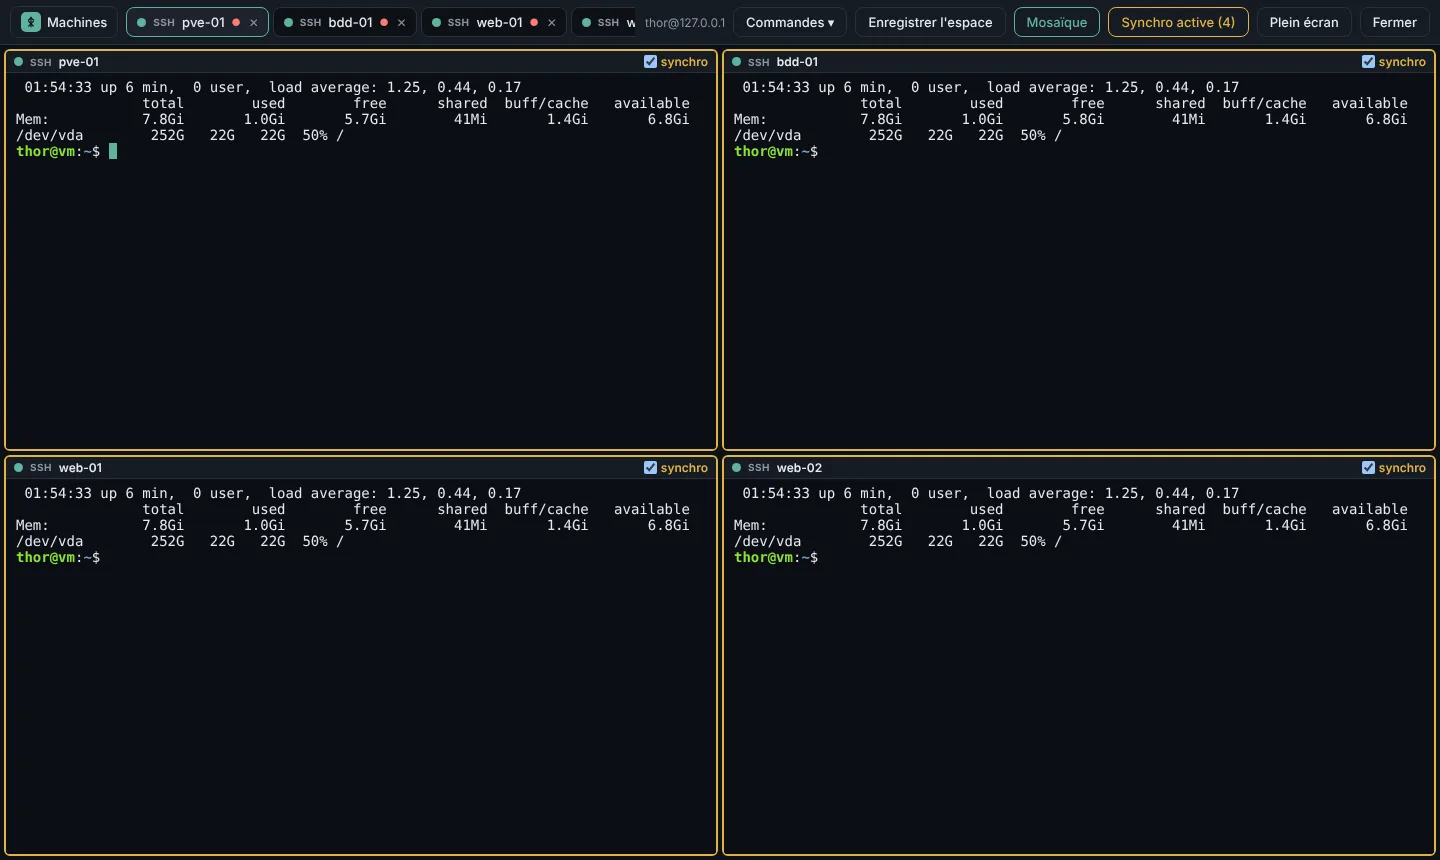
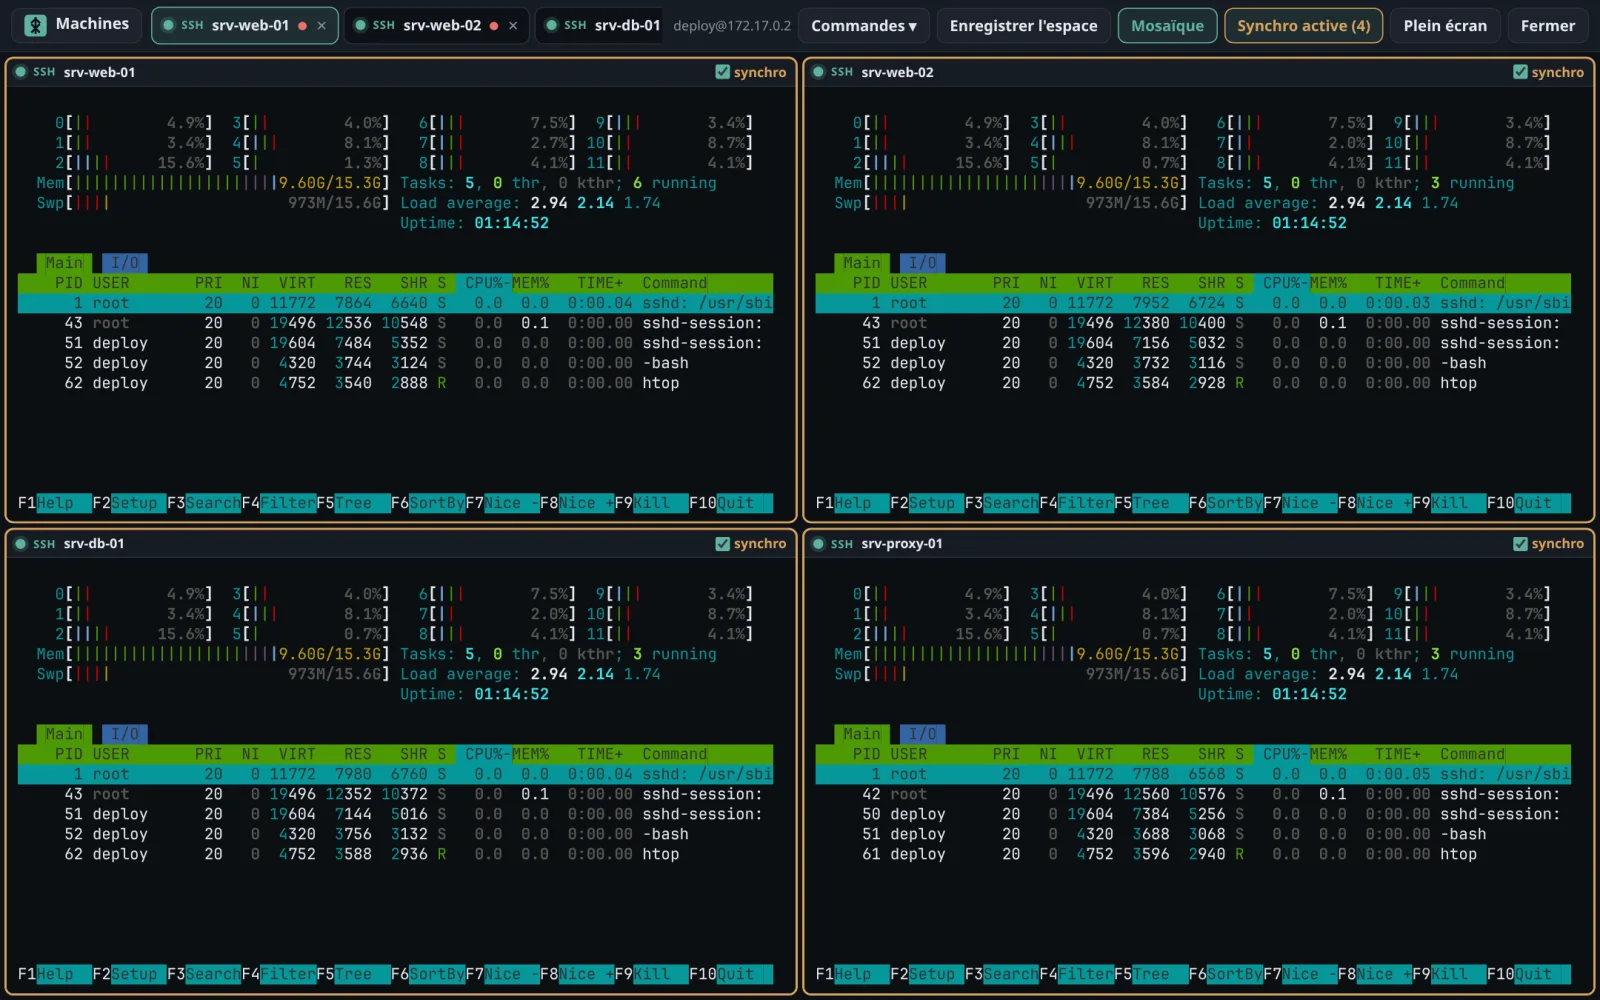
Mosaïque : taille des terminaux envoyée à l'ouverture ; nouvelles captures d'écran
- Un redimensionnement survenu pendant la connexion (ouverture d'un espace en mosaïque)
  était perdu : htop, vim… s'affichaient de travers. La taille réelle est maintenant
  envoyée dès l'ouverture de la connexion.
- README et site : captures de la nouvelle interface (accueil, mosaïque, thèmes,
  connexion, sessions)

diff --git a/site/index.html b/site/index.html
@@ -143,12 +143,12 @@ active
         <p>Espaces de travail, machines rangées par dossier, sessions en mosaïque et bureaux à distance, dans le navigateur.</p>
       </div>
       <figure class="shot shot-main">
-        <img src="assets/captures/accueil.webp" width="1440" height="860" loading="lazy" alt="Écran d'accueil de Gná : un espace de travail « Production » et les machines groupées par dossier, avec les favoris en tête">
+        <img src="assets/captures/accueil.webp" width="1440" height="900" loading="lazy" alt="Écran d'accueil de Gná : un espace de travail « Production » et les machines groupées par dossier, avec les favoris en tête">
         <figcaption>Espaces de travail, favoris et machines groupées par dossier</figcaption>
       </figure>
       <div class="shots">
         <figure class="shot">
-          <img src="assets/captures/mosaique.webp" width="1440" height="860" loading="lazy" alt="Quatre terminaux SSH en mosaïque, avec la saisie synchronisée active sur les quatre">
+          <img src="assets/captures/mosaique.webp" width="1440" height="900" loading="lazy" alt="Quatre terminaux SSH en mosaïque, avec la saisie synchronisée active sur les quatre">
           <figcaption>Mosaïque et saisie synchronisée</figcaption>
         </figure>
         <figure class="shot">

diff --git a/server/internal/web/static/sessions.js b/server/internal/web/static/sessions.js
@@ -269,6 +269,10 @@ class SshSession extends Session {
     if (this.sftp.tid) params.set("t", this.sftp.tid);
     const ws = new WebSocket(`${proto}://${location.host}/api/targets/${this.target.id}/ssh?${params}`);
     ws.binaryType = "arraybuffer";
+    // Taille réelle à l'ouverture : un redimensionnement survenu pendant la connexion
+    // (passage en mosaïque, espace de travail) aurait été perdu, et htop ou vim
+    // s'afficheraient de travers.
+    ws.addEventListener("open", () => ws.send(JSON.stringify({ type: "resize", cols: x.cols, rows: x.rows })));
     this.ws = ws;
     const enc = new TextEncoder();
 
